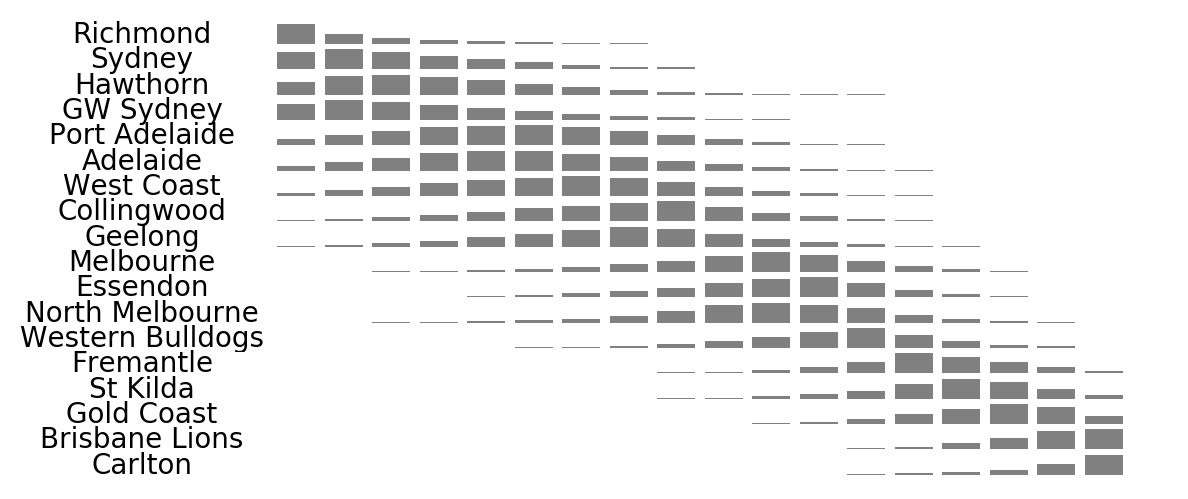
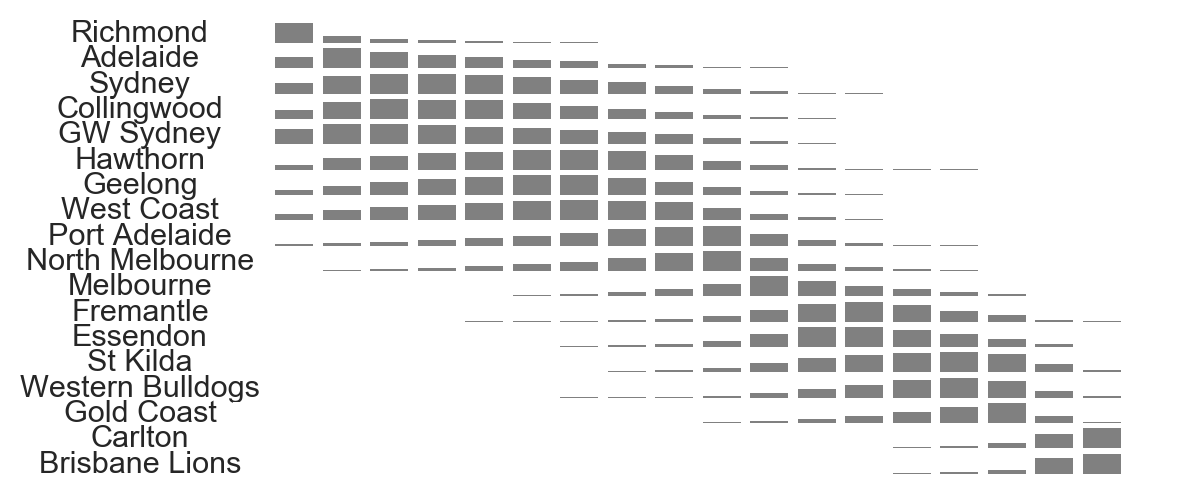
update

diff --git a/seasonsimulation.md b/seasonsimulation.md
@@ -2,7 +2,7 @@
 layout: page
 title: AFL Season Simulation
 ---
-<table border="1" class="dataframe">   <thead>     <tr style="text-align: right;">       <th></th>       <th>Team</th>       <th>Average Wins</th>       <th>Average Position</th>       <th>Median Position</th>       <th>Standard Deviation</th>       <th>High</th>       <th>Low</th>       <th>Finals Prob</th>       <th>Top 4 Prob</th>       <th>Minor Premier Prob</th>       <th>Bottom 4 Prob</th>       <th>Wooden Spoon Prob</th>       <th>Preniership Prob</th>     </tr>   </thead>   <tbody>     <tr>       <th>1</th>       <td>Richmond</td>       <td>16.026</td>       <td>2.4568</td>       <td>2</td>       <td>1.87263</td>       <td>1</td>       <td>15</td>       <td>98.71</td>       <td>86.66</td>       <td>42.77</td>       <td>0.01</td>       <td>0</td>       <td>39.3</td>     </tr>     <tr>       <th>2</th>       <td>Sydney</td>       <td>15.2635</td>       <td>3.5245</td>       <td>3</td>       <td>2.21314</td>       <td>1</td>       <td>14</td>       <td>96.67</td>       <td>72.51</td>       <td>18.24</td>       <td>0</td>       <td>0</td>       <td>11.64</td>     </tr>     <tr>       <th>3</th>       <td>Hawthorn</td>       <td>14.8615</td>       <td>4.1389</td>       <td>4</td>       <td>2.3397</td>       <td>1</td>       <td>16</td>       <td>94.79</td>       <td>61.21</td>       <td>11.69</td>       <td>0.02</td>       <td>0</td>       <td>12.87</td>     </tr>     <tr>       <th>4</th>       <td>GW Sydney</td>       <td>14.8026</td>       <td>3.9256</td>       <td>3</td>       <td>2.41028</td>       <td>1</td>       <td>16</td>       <td>94.64</td>       <td>65.05</td>       <td>15.42</td>       <td>0.02</td>       <td>0</td>       <td>15.53</td>     </tr>     <tr>       <th>5</th>       <td>Port Adelaide</td>       <td>13.7655</td>       <td>5.786</td>       <td>6</td>       <td>2.67851</td>       <td>1</td>       <td>16</td>       <td>84.09</td>       <td>33.84</td>       <td>4.31</td>       <td>0.11</td>       <td>0</td>       <td>7.03</td>     </tr>     <tr>       <th>6</th>       <td>Adelaide</td>       <td>13.5626</td>       <td>5.8665</td>       <td>6</td>       <td>2.56037</td>       <td>1</td>       <td>17</td>       <td>84.2</td>       <td>31.57</td>       <td>3.14</td>       <td>0.08</td>       <td>0</td>       <td>6.08</td>     </tr>     <tr>       <th>7</th>       <td>West Coast</td>       <td>13.1754</td>       <td>6.6627</td>       <td>7</td>       <td>2.69762</td>       <td>1</td>       <td>16</td>       <td>75.11</td>       <td>22.15</td>       <td>2.37</td>       <td>0.17</td>       <td>0</td>       <td>2.5</td>     </tr>     <tr>       <th>8</th>       <td>Collingwood</td>       <td>12.5366</td>       <td>7.8231</td>       <td>8</td>       <td>2.64424</td>       <td>1</td>       <td>18</td>       <td>57.91</td>       <td>11.48</td>       <td>1.14</td>       <td>0.41</td>       <td>0.01</td>       <td>2.16</td>     </tr>     <tr>       <th>9</th>       <td>Geelong</td>       <td>12.4266</td>       <td>7.8018</td>       <td>8</td>       <td>2.57486</td>       <td>1</td>       <td>17</td>       <td>59.49</td>       <td>10.84</td>       <td>0.73</td>       <td>0.38</td>       <td>0</td>       <td>2.11</td>     </tr>     <tr>       <th>10</th>       <td>Melbourne</td>       <td>10.5119</td>       <td>10.6364</td>       <td>11</td>       <td>2.48459</td>       <td>1</td>       <td>18</td>       <td>18.01</td>       <td>1.56</td>       <td>0.05</td>       <td>4.64</td>       <td>0.05</td>       <td>0.12</td>     </tr>     <tr>       <th>11</th>       <td>Essendon</td>       <td>10.2974</td>       <td>11.0115</td>       <td>11</td>       <td>2.44106</td>       <td>1</td>       <td>18</td>       <td>14.46</td>       <td>1.35</td>       <td>0.05</td>       <td>5.45</td>       <td>0.14</td>       <td>0.35</td>     </tr>     <tr>       <th>12</th>       <td>North Melbourne</td>       <td>10.1738</td>       <td>10.886</td>       <td>11</td>       <td>2.46301</td>       <td>1</td>       <td>18</td>       <td>14.31</td>       <td>1.37</td>       <td>0.08</td>       <td>5.72</td>       <td>0.19</td>       <td>0.25</td>     </tr>     <tr>       <th>13</th>       <td>Western Bulldogs</td>       <td>9.286</td>       <td>12.2949</td>       <td>13</td>       <td>2.26538</td>       <td>1</td>       <td>18</td>       <td>6.13</td>       <td>0.35</td>       <td>0.01</td>       <td>13.81</td>       <td>0.45</td>       <td>0.06</td>     </tr>     <tr>       <th>14</th>       <td>Fremantle</td>       <td>7.5954</td>       <td>14.2007</td>       <td>14</td>       <td>1.90285</td>       <td>3</td>       <td>18</td>       <td>0.74</td>       <td>0.04</td>       <td>0</td>       <td>44.47</td>       <td>2.97</td>       <td>0</td>     </tr>     <tr>       <th>15</th>       <td>St Kilda</td>       <td>7.1198</td>       <td>14.7831</td>       <td>15</td>       <td>1.85722</td>       <td>4</td>       <td>18</td>       <td>0.57</td>       <td>0.01</td>       <td>0</td>       <td>61.29</td>       <td>4.88</td>       <td>0</td>     </tr>     <tr>       <th>16</th>       <td>Gold Coast</td>       <td>6.674</td>       <td>15.5109</td>       <td>16</td>       <td>1.73461</td>       <td>4</td>       <td>18</td>       <td>0.14</td>       <td>0.01</td>       <td>0</td>       <td>76.31</td>       <td>10.29</td>       <td>0</td>     </tr>     <tr>       <th>17</th>       <td>Brisbane Lions</td>       <td>5.0405</td>       <td>16.6628</td>       <td>17</td>       <td>1.35355</td>       <td>6</td>       <td>18</td>       <td>0.02</td>       <td>0</td>       <td>0</td>       <td>92.68</td>       <td>32.15</td>       <td>0</td>     </tr>     <tr>       <th>18</th>       <td>Carlton</td>       <td>4.8809</td>       <td>17.0278</td>       <td>17</td>       <td>1.28446</td>       <td>8</td>       <td>18</td>       <td>0.01</td>       <td>0</td>       <td>0</td>       <td>94.43</td>       <td>48.87</td>       <td>0</td>     </tr>   </tbody> </table>
+<table border="1" class="dataframe">   <thead>     <tr style="text-align: center;">       <th>Team</th>       <th>Average Wins</th>       <th>Average Position</th>       <th>Median Position</th>       <th>Standard Deviation</th>       <th>High</th>       <th>Low</th>       <th>Finals Prob</th>       <th>Top 4 Prob</th>       <th>Minor Premier Prob</th>       <th>Bottom 4 Prob</th>       <th>Wooden Spoon Prob</th>       <th>Premiership Prob</th>     </tr>   </thead>   <tbody>     <tr>       <td>Richmond</td>       <td>16.2948</td>       <td>2.1681</td>       <td>1</td>       <td>1.74145</td>       <td>1</td>       <td>13</td>       <td>99.17</td>       <td>89.28</td>       <td>52.93</td>       <td>0</td>       <td>0</td>       <td>44.23</td>     </tr>     <tr>       <td>Adelaide</td>       <td>14.5646</td>       <td>4.1708</td>       <td>4</td>       <td>2.47787</td>       <td>1</td>       <td>15</td>       <td>93.35</td>       <td>61.46</td>       <td>11.39</td>       <td>0.01</td>       <td>0</td>       <td>11.06</td>     </tr>     <tr>       <td>Sydney</td>       <td>14.1831</td>       <td>5.0059</td>       <td>5</td>       <td>2.63569</td>       <td>1</td>       <td>15</td>       <td>88.76</td>       <td>47.22</td>       <td>7.35</td>       <td>0.02</td>       <td>0</td>       <td>7.36</td>     </tr>     <tr>       <td>Collingwood</td>       <td>14.0443</td>       <td>5.0378</td>       <td>5</td>       <td>2.63711</td>       <td>1</td>       <td>15</td>       <td>88.82</td>       <td>46.97</td>       <td>6.45</td>       <td>0.05</td>       <td>0</td>       <td>9.79</td>     </tr>     <tr>       <td>GW Sydney</td>       <td>14.2302</td>       <td>5.0789</td>       <td>5</td>       <td>2.86354</td>       <td>1</td>       <td>17</td>       <td>85.9</td>       <td>47.37</td>       <td>9.82</td>       <td>0.04</td>       <td>0</td>       <td>9.83</td>     </tr>     <tr>       <td>Hawthorn</td>       <td>13.59</td>       <td>6.0827</td>       <td>6</td>       <td>2.7128</td>       <td>1</td>       <td>16</td>       <td>80.41</td>       <td>30.47</td>       <td>3.34</td>       <td>0.17</td>       <td>0</td>       <td>5.69</td>     </tr>     <tr>       <td>Geelong</td>       <td>13.4845</td>       <td>6.0877</td>       <td>6</td>       <td>2.66755</td>       <td>1</td>       <td>17</td>       <td>80.72</td>       <td>29.6</td>       <td>3.32</td>       <td>0.09</td>       <td>0</td>       <td>5.41</td>     </tr>     <tr>       <td>West Coast</td>       <td>13.4925</td>       <td>6.4078</td>       <td>7</td>       <td>2.85897</td>       <td>1</td>       <td>16</td>       <td>74.43</td>       <td>27.83</td>       <td>3.84</td>       <td>0.09</td>       <td>0</td>       <td>2.89</td>     </tr>     <tr>       <td>Port Adelaide</td>       <td>12.4211</td>       <td>8.1491</td>       <td>9</td>       <td>2.74504</td>       <td>1</td>       <td>17</td>       <td>49.64</td>       <td>11.58</td>       <td>1.07</td>       <td>0.57</td>       <td>0</td>       <td>2.24</td>     </tr>     <tr>       <td>North Melbourne</td>       <td>11.7587</td>       <td>8.9016</td>       <td>9</td>       <td>2.61792</td>       <td>1</td>       <td>18</td>       <td>38.39</td>       <td>6.55</td>       <td>0.44</td>       <td>1.3</td>       <td>0.02</td>       <td>1.29</td>     </tr>     <tr>       <td>Melbourne</td>       <td>10.0989</td>       <td>11.2396</td>       <td>11</td>       <td>2.3834</td>       <td>1</td>       <td>18</td>       <td>11.01</td>       <td>1.2</td>       <td>0.04</td>       <td>7.98</td>       <td>0.1</td>       <td>0.12</td>     </tr>     <tr>       <td>Fremantle</td>       <td>8.9854</td>       <td>12.7685</td>       <td>13</td>       <td>2.11374</td>       <td>2</td>       <td>18</td>       <td>3.15</td>       <td>0.18</td>       <td>0</td>       <td>20.06</td>       <td>0.32</td>       <td>0.02</td>     </tr>     <tr>       <td>Essendon</td>       <td>8.7423</td>       <td>12.863</td>       <td>13</td>       <td>2.14346</td>       <td>2</td>       <td>18</td>       <td>2.95</td>       <td>0.14</td>       <td>0</td>       <td>22.85</td>       <td>0.52</td>       <td>0.05</td>     </tr>     <tr>       <td>St Kilda</td>       <td>7.9899</td>       <td>13.8028</td>       <td>14</td>       <td>2.25142</td>       <td>1</td>       <td>18</td>       <td>1.9</td>       <td>0.12</td>       <td>0.01</td>       <td>42.02</td>       <td>2.39</td>       <td>0.01</td>     </tr>     <tr>       <td>Western Bulldogs</td>       <td>7.7379</td>       <td>14.2134</td>       <td>14</td>       <td>1.98481</td>       <td>4</td>       <td>18</td>       <td>0.97</td>       <td>0.02</td>       <td>0</td>       <td>49.13</td>       <td>2.28</td>       <td>0.01</td>     </tr>     <tr>       <td>Gold Coast</td>       <td>7.3768</td>       <td>14.7491</td>       <td>15</td>       <td>1.7815</td>       <td>4</td>       <td>18</td>       <td>0.41</td>       <td>0.01</td>       <td>0</td>       <td>62.58</td>       <td>2.19</td>       <td>0</td>     </tr>     <tr>       <td>Carlton</td>       <td>4.7417</td>       <td>17.0684</td>       <td>17</td>       <td>1.20438</td>       <td>8</td>       <td>18</td>       <td>0.02</td>       <td>0</td>       <td>0</td>       <td>95.54</td>       <td>45.71</td>       <td>0</td>     </tr>     <tr>       <td>Brisbane Lions</td>       <td>4.2633</td>       <td>17.2048</td>       <td>17</td>       <td>0.994212</td>       <td>10</td>       <td>18</td>       <td>0</td>       <td>0</td>       <td>0</td>       <td>97.5</td>       <td>46.47</td>       <td>0</td>     </tr>   </tbody> </table>
 <p>Based on 10,000 simulations.</p>
 
 <img src="/img/histogram.png"/>
